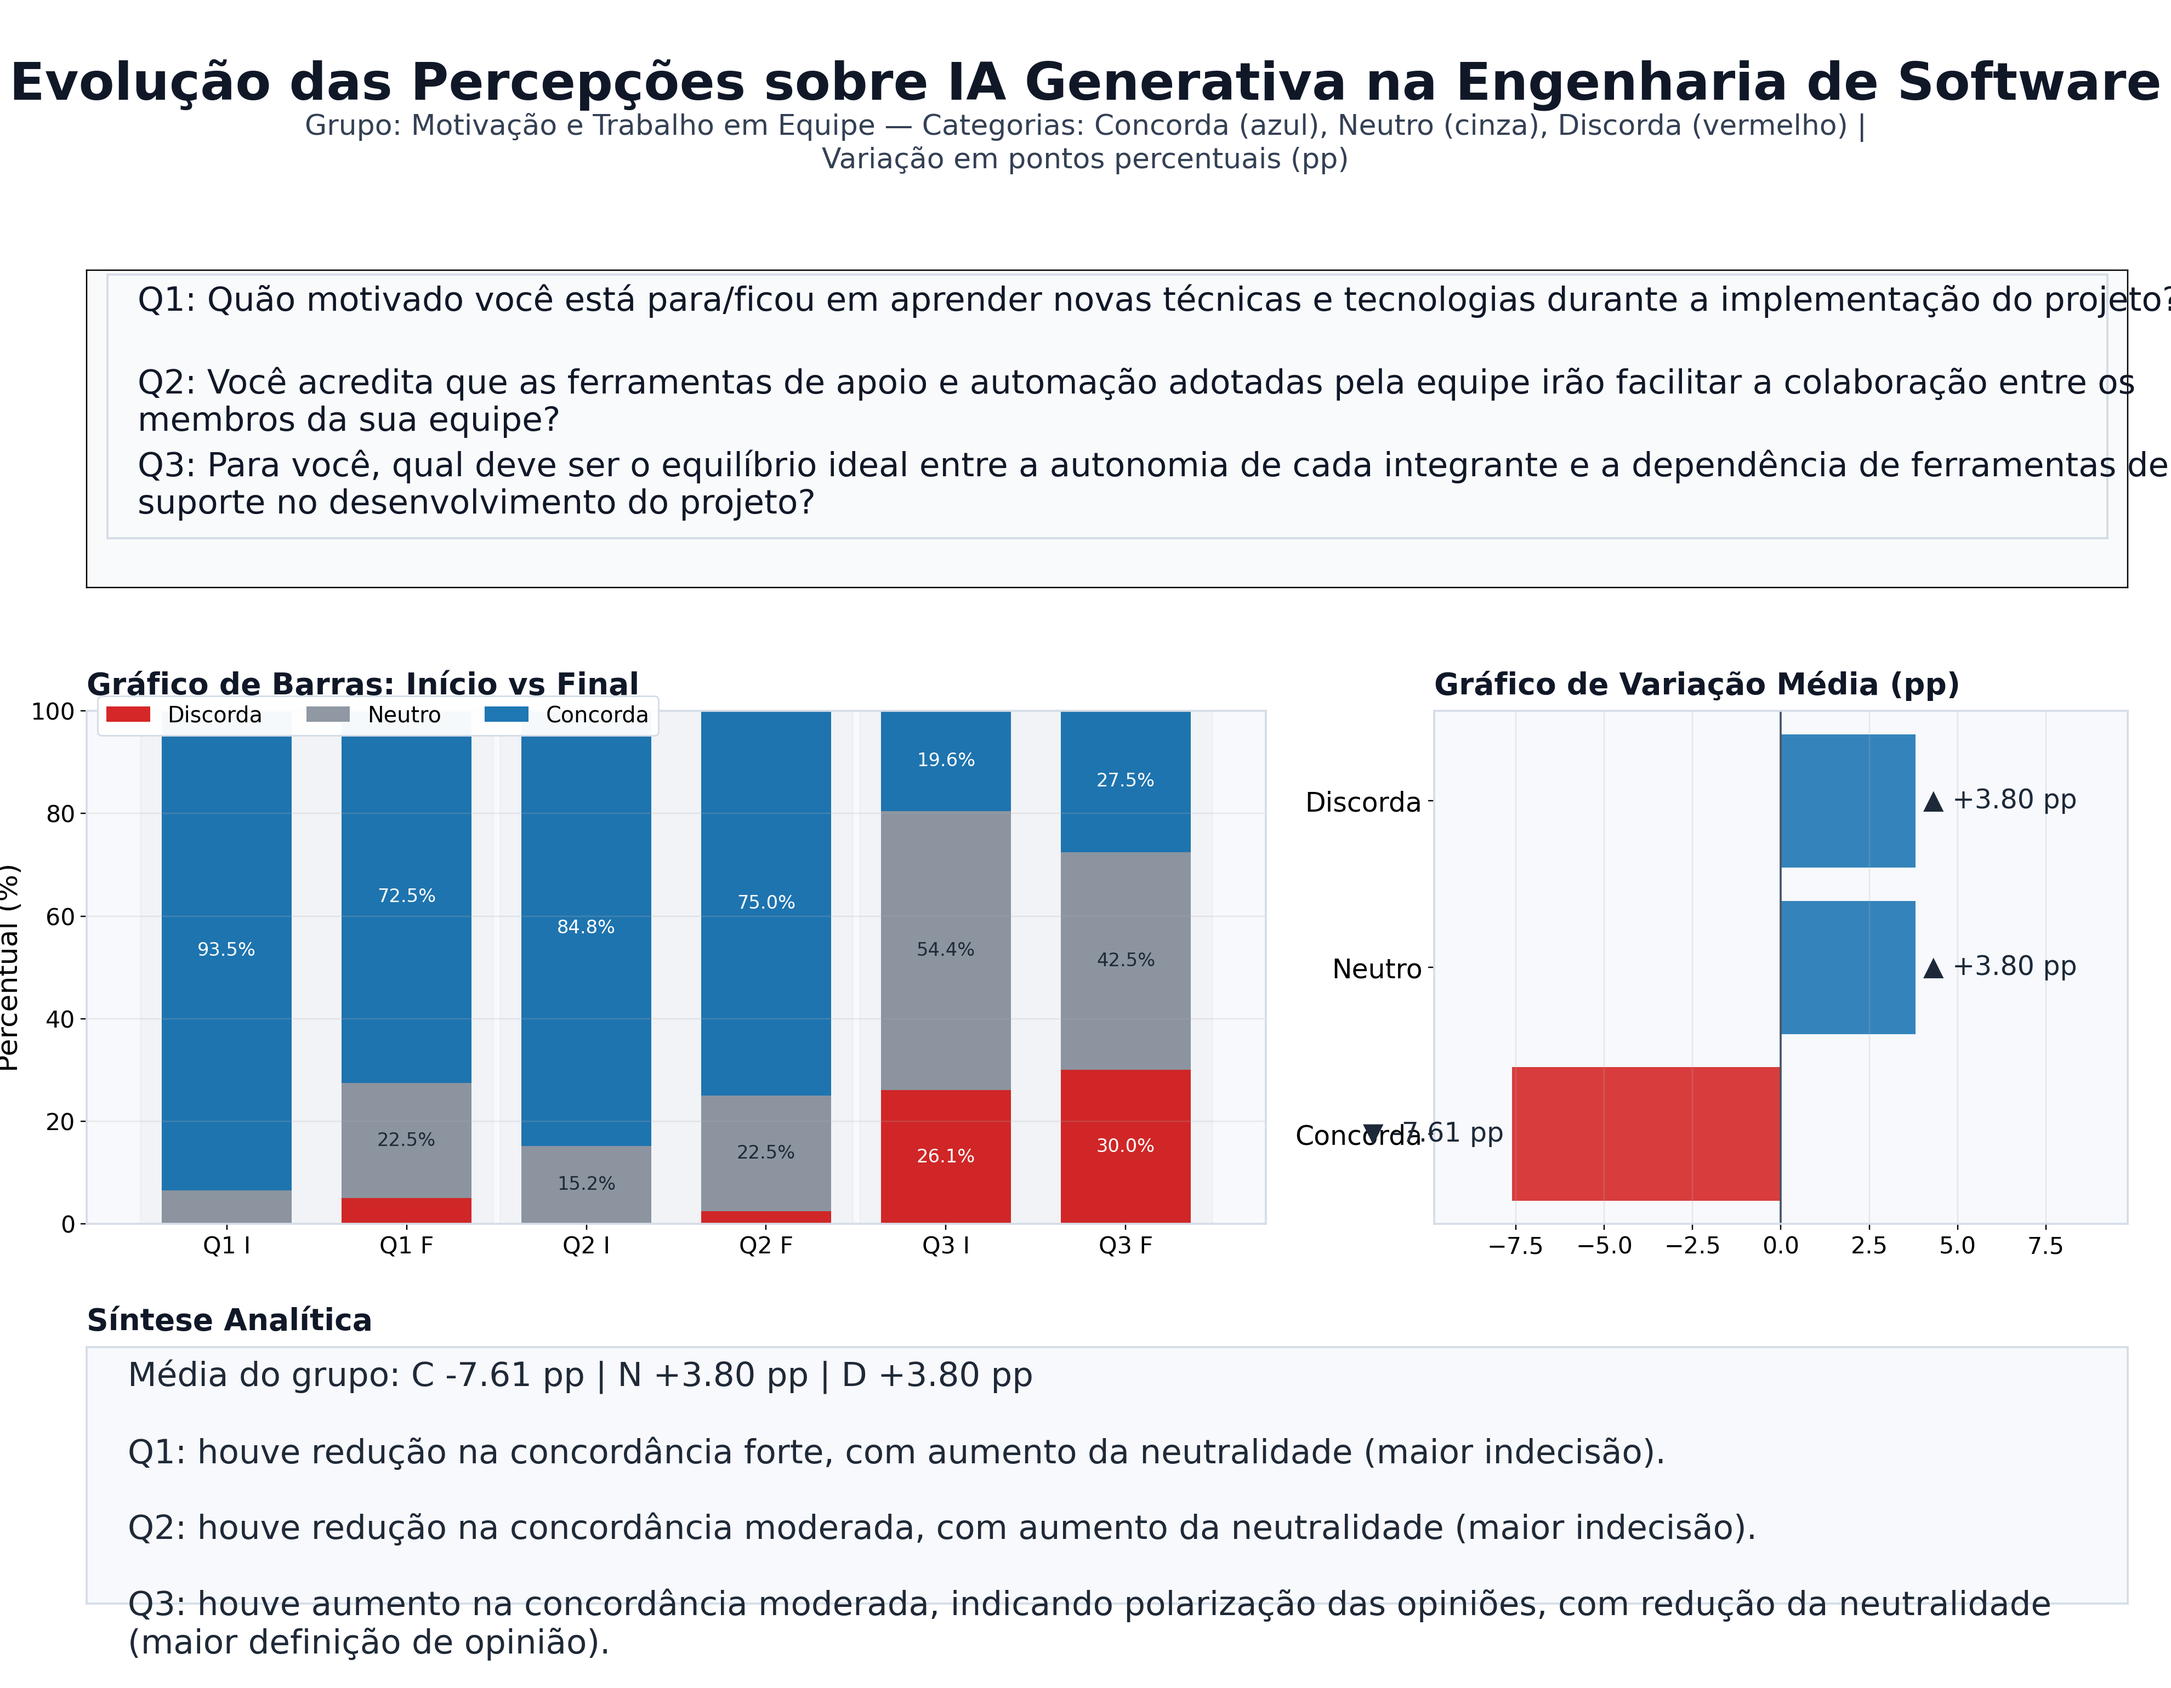
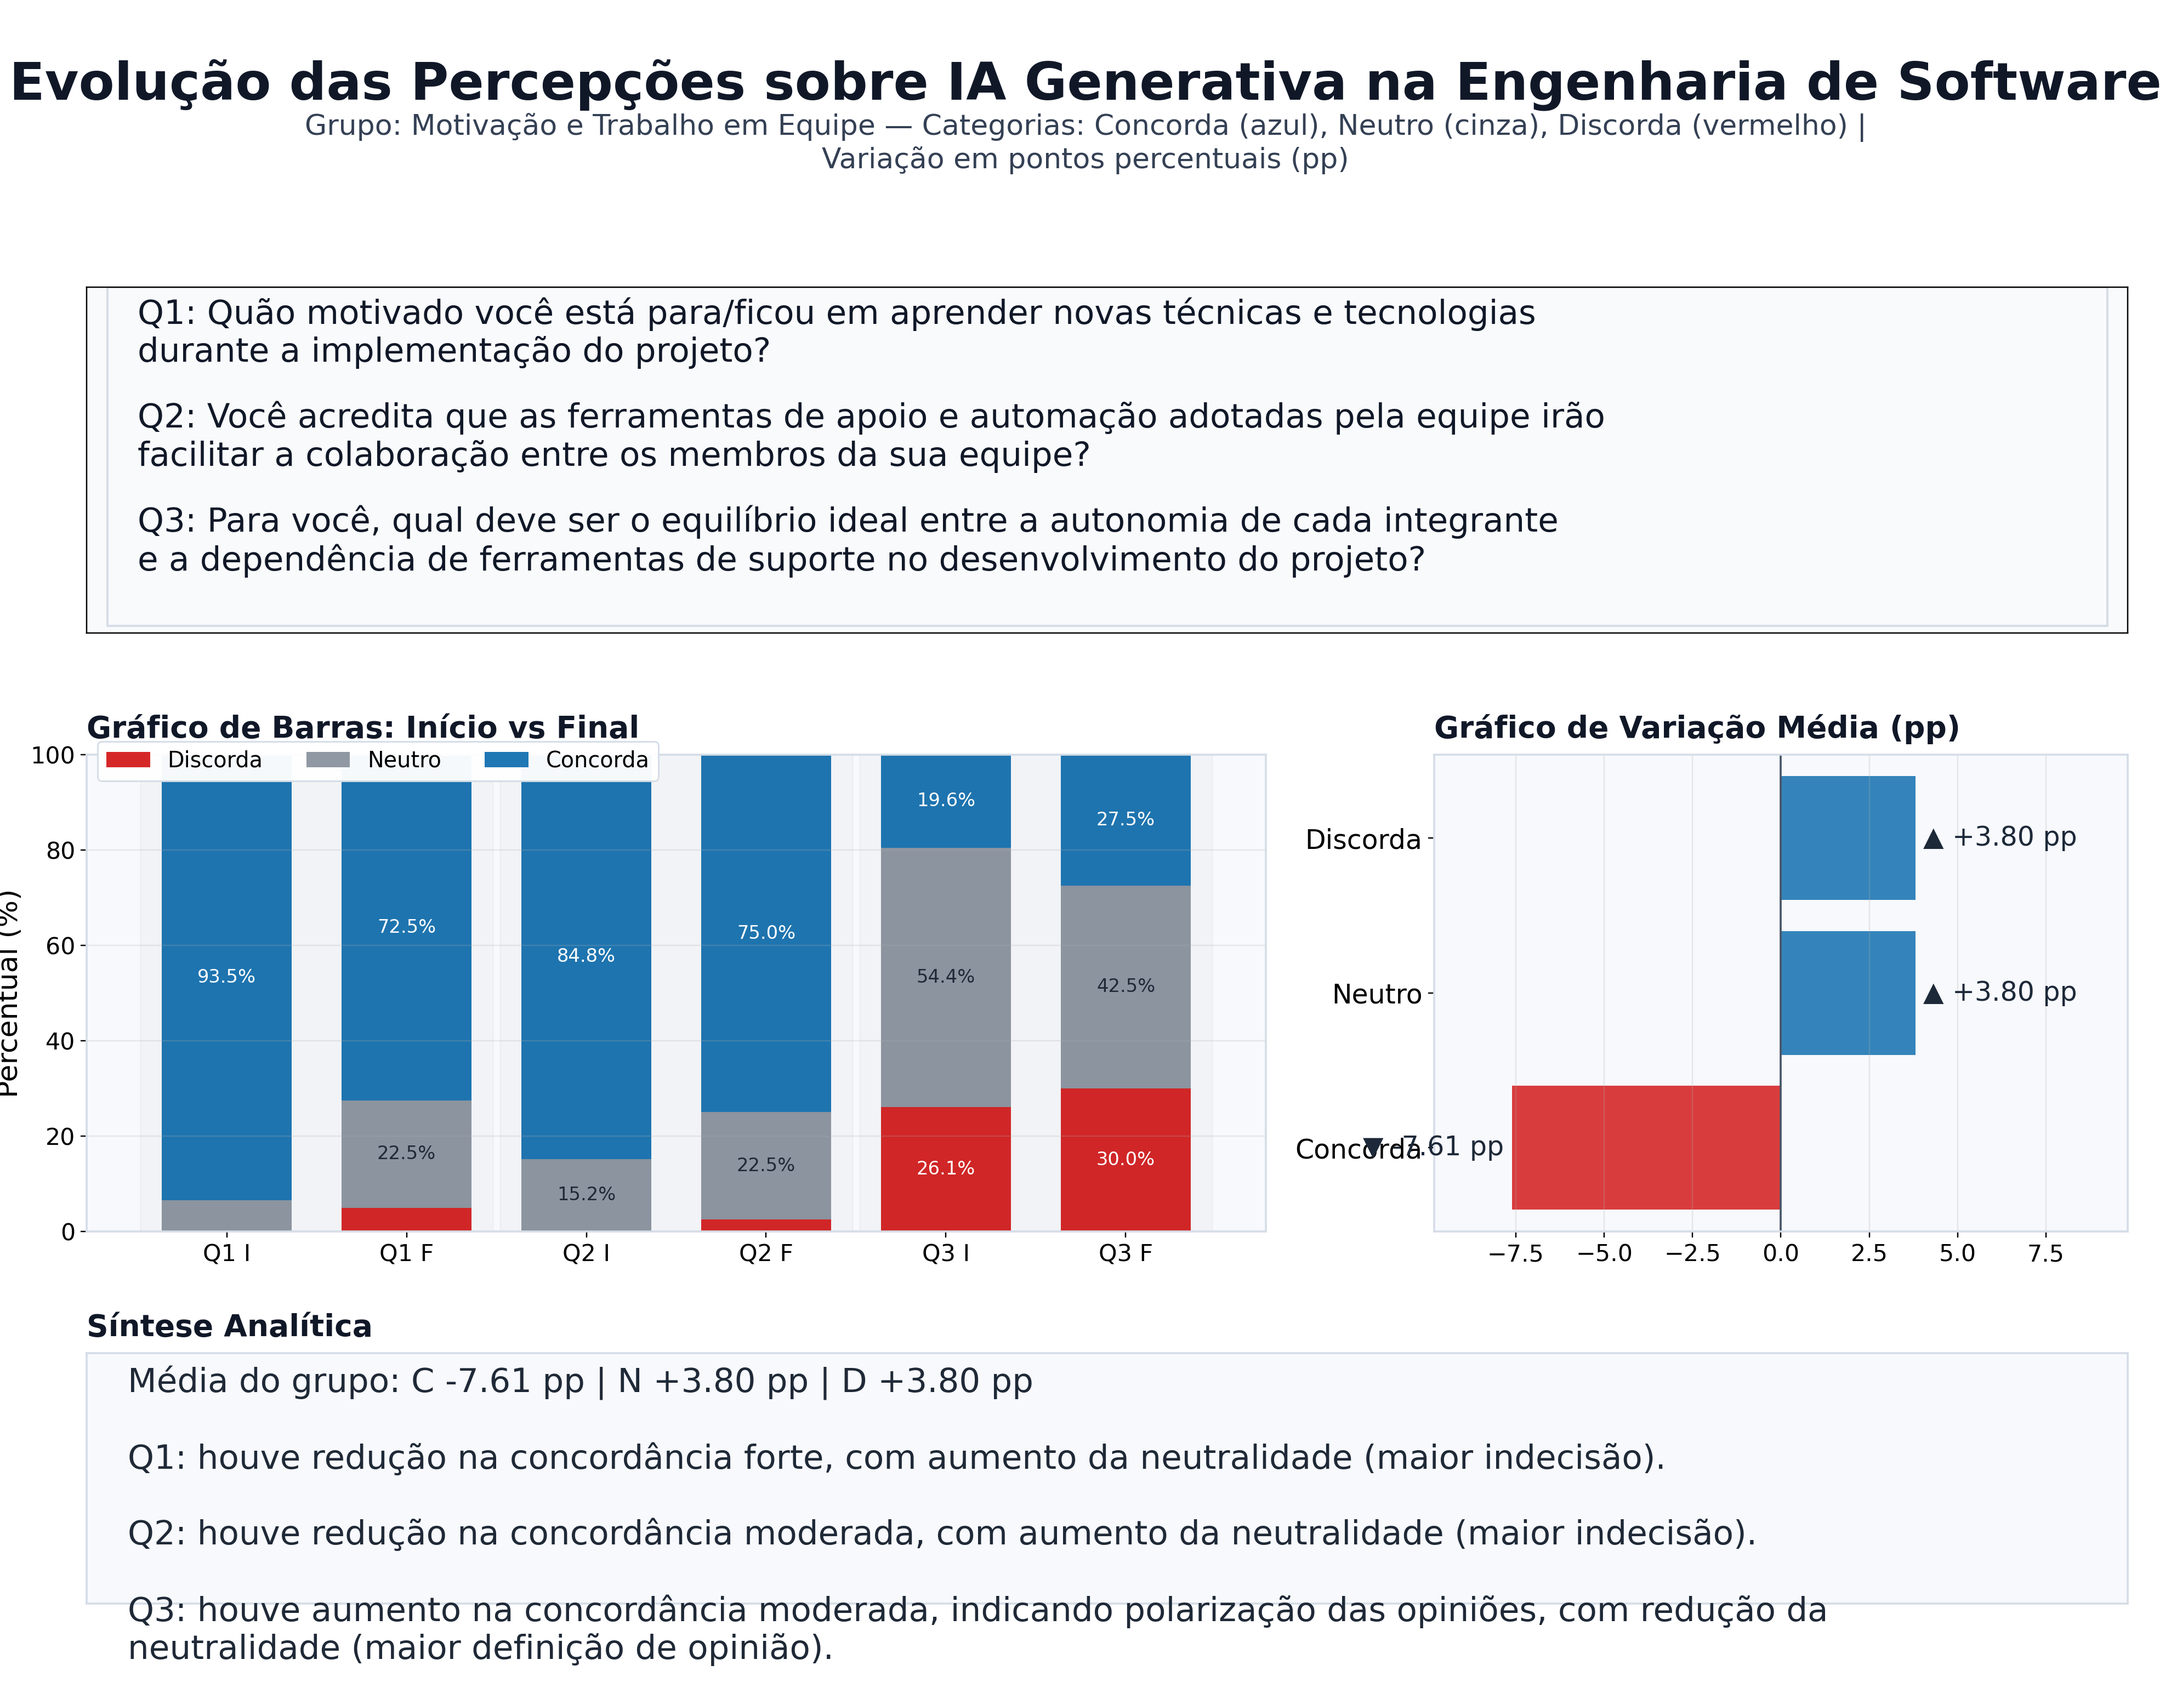
Improve v5 panels layout and analysis content

diff --git a/serpro/generate_group_panels_v5.py b/serpro/generate_group_panels_v5.py
@@ -169,10 +169,10 @@ def build_group_panel(group_name: str, rows: list[dict[str, str]], output_file: 
     grid = fig.add_gridspec(
         nrows=3,
         ncols=1,
-        height_ratios=[1.3, 2.1, 1.05],
+        height_ratios=[1.45, 2.0, 1.05],
         left=0.04,
         right=0.98,
-        top=0.84,
+        top=0.83,
         bottom=0.05,
         hspace=0.34,
     )
@@ -286,7 +286,7 @@ def build_group_panel(group_name: str, rows: list[dict[str, str]], output_file: 
 
     header_lines = wrap_lines(
         [f"Média do grupo: C {avg_con:+.2f} pp | N {avg_neu:+.2f} pp | D {avg_dis:+.2f} pp"],
-        width=100,
+        width=95,
     )
 
     # Síntese agora exibe a íntegra da coluna \"Análise\" do CSV para cada questão.
@@ -296,7 +296,7 @@ def build_group_panel(group_name: str, rows: list[dict[str, str]], output_file: 
         analysis = clean_analysis_text(analysis)
         if not analysis:
             continue
-        q_lines = wrap_lines([f"Q{idx + 1}: {analysis}"], width=110)
+        q_lines = wrap_lines([f"Q{idx + 1}: {analysis}"], width=95)
         lines.extend(q_lines)
         lines.append("")
 
@@ -338,7 +338,7 @@ def build_group_panel(group_name: str, rows: list[dict[str, str]], output_file: 
         color=COLORS["sub"],
     )
 
-    fig.subplots_adjust(top=0.885)
+    fig.subplots_adjust(top=0.875)
 
     # Faixa de perguntas, em lista linear.
     ax_q.set_xticks([])
@@ -348,11 +348,11 @@ def build_group_panel(group_name: str, rows: list[dict[str, str]], output_file: 
     ax_q.set_ylim(0, 1)
 
     # Área das questões mais alta e com fonte grande; caixa única ocupando toda a largura.
-    line_y = 0.955
-    gap = 0.26
-    text_width = 120
+    line_y = 0.97
+    gap = 0.30
+    text_width = 85
 
-    box_height = gap * n_questions + 0.05
+    box_height = gap * n_questions + 0.08
     ax_q.add_patch(
         plt.Rectangle(
             (0.01, line_y - box_height + 0.03),
